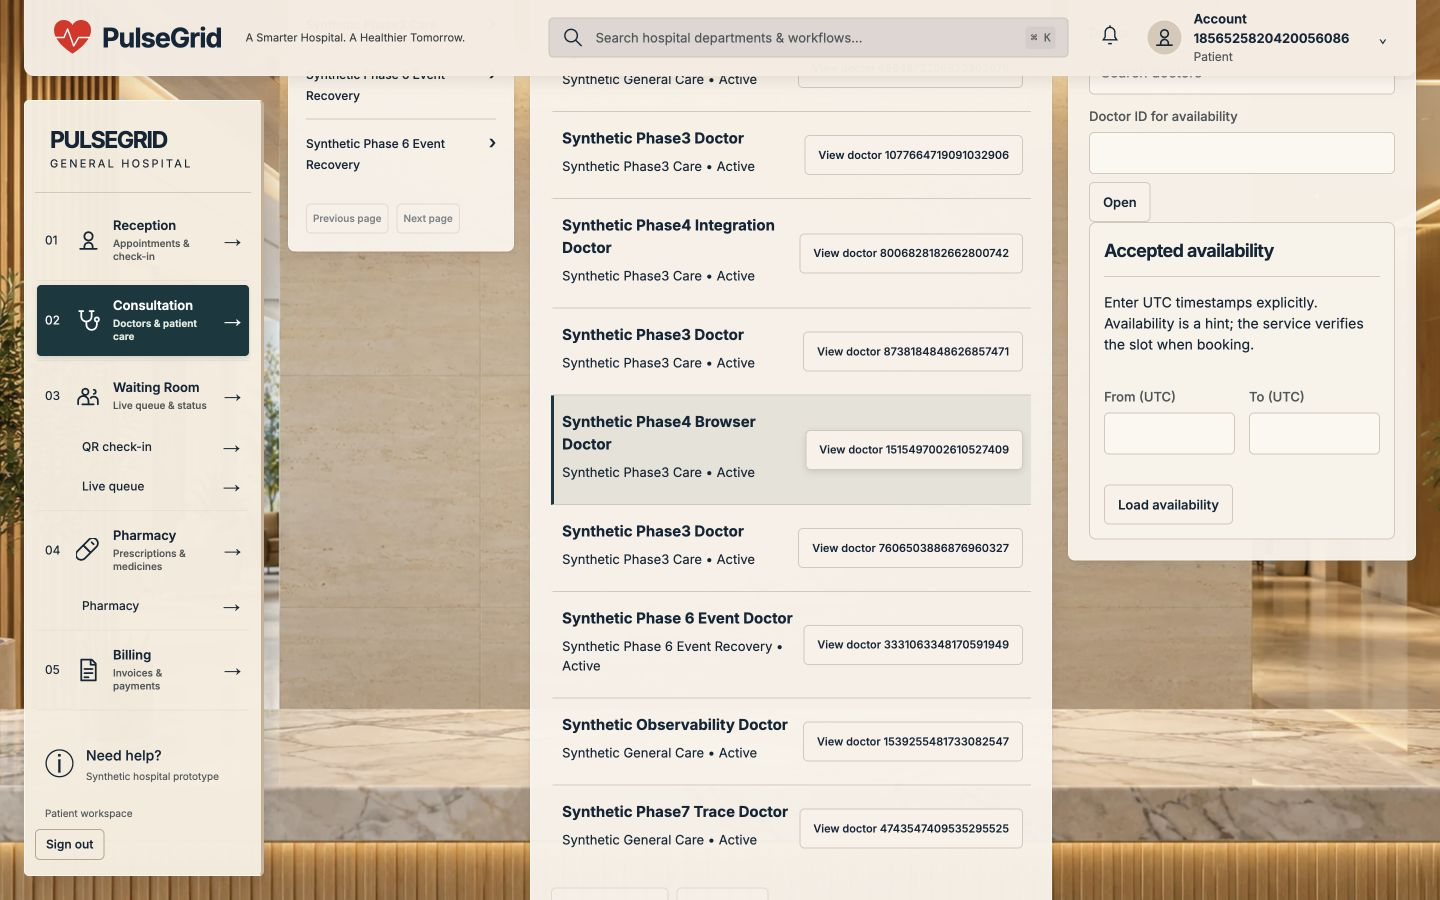
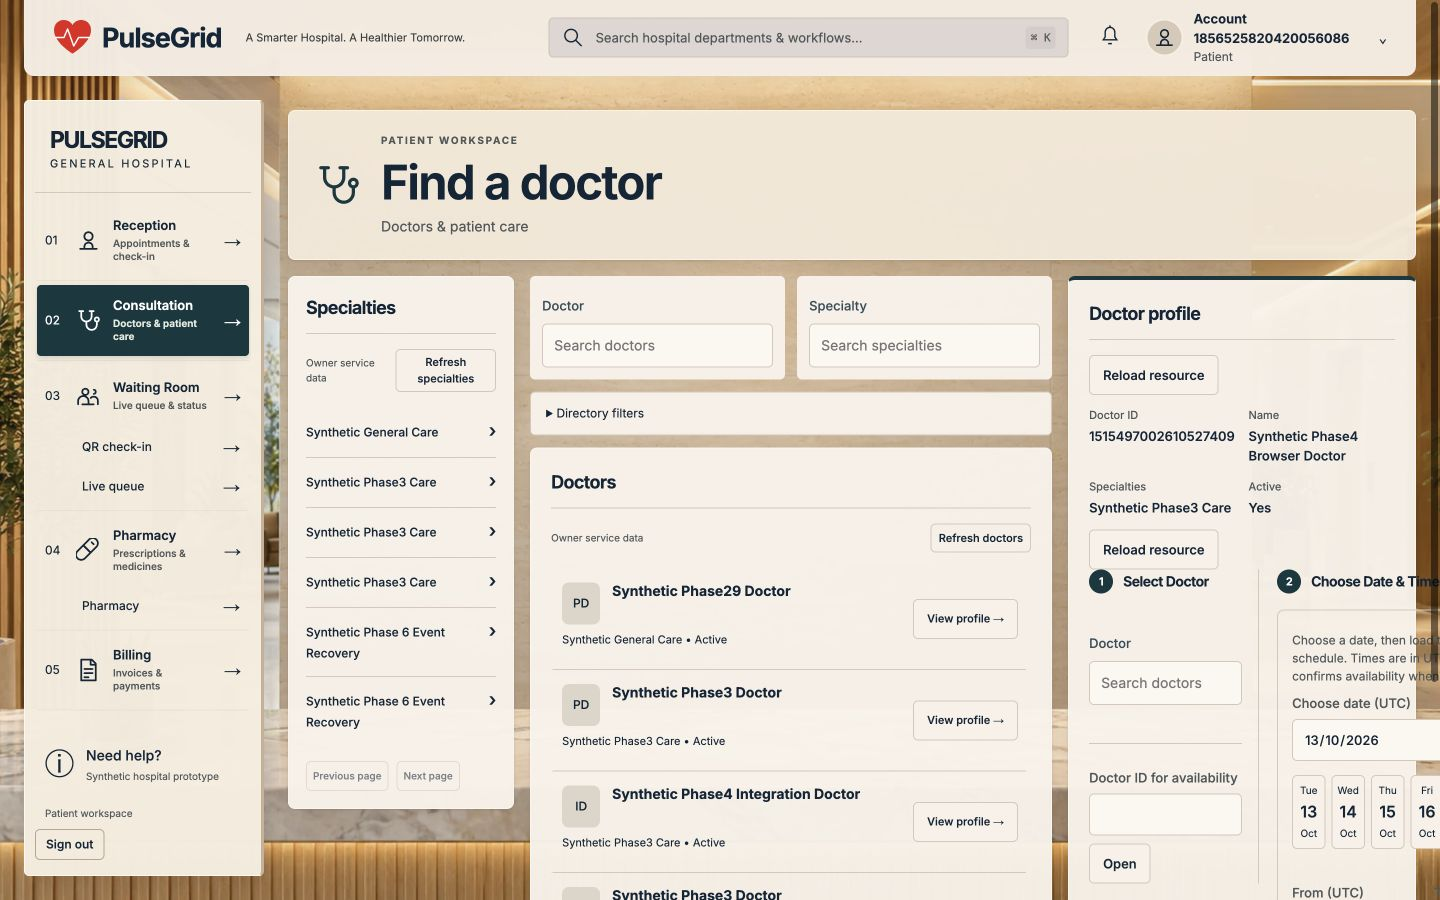
phase9: compose pharmacy counter invoices emergency cases and clinical dossiers

diff --git a/frontend/src/hospital/billingEmergency.tsx b/frontend/src/hospital/billingEmergency.tsx
@@ -1,3 +1,4 @@
+import { DepartmentIcon } from "../design/DepartmentIcon";
 import { InsuranceEstimatePanel, InsuranceRefreshPanel } from "../phase4";
 import { useState } from "react";
 import { useAuth } from "../auth/authContext";
@@ -32,12 +33,13 @@ export function BillingPage({ staff = false }: { staff?: boolean }) {
   const [revision, setRevision] = useState(0);
   const [payment, setPayment] = useState<Payment | null>(null);
   return (
-    <>
-      <p>
+    <div className="billing-workbench">
+      <p className="billing-service-note">
         Payments are simulated. Do not enter card, bank or real payment
         credentials. Invoice balances include only charges explicitly imported
         by billing staff.
       </p>
+      <section className="billing-source-desk">
       {staff && (
         <Panel title="Create invoice">
           <CommandForm<Invoice>
@@ -88,6 +90,7 @@ export function BillingPage({ staff = false }: { staff?: boolean }) {
           setPayment(null);
         }}
       />
+      </section><aside className="invoice-receipt">{!selected && <Panel title="Current bill"><div className="resource-empty"><DepartmentIcon department="billing"/><strong>Open an invoice</strong><p>Choose an invoice to review its authoritative line items, insurance estimate and balance.</p></div></Panel>}
       <Selected<Invoice>
         path={selected ? `/api/v1/billing/invoices/${selected}` : null}
       >
@@ -113,18 +116,8 @@ export function BillingPage({ staff = false }: { staff?: boolean }) {
               {invoice.items.length === 0 && (
                 <p>No charges have been imported.</p>
               )}
-              {invoice.items.map((item) => (
-                <Facts
-                  key={item.id}
-                  values={{
-                    Charge: item.charge_code,
-                    Source: `${item.source_service} ${item.source_item_id}`,
-                    Quantity: item.quantity,
-                    "Unit price": money(item.unit_amount_minor),
-                    "Tariff revision": item.tariff_revision,
-                  }}
-                />
-              ))}
+              <div className="invoice-line-scroll"><table className="invoice-lines"><caption>Itemized invoice</caption><thead><tr><th scope="col">Charge / source</th><th scope="col">Qty</th><th scope="col">Unit price</th><th scope="col">Tariff</th></tr></thead><tbody>{invoice.items.map(item=><tr key={item.id}><th scope="row">{item.charge_code}<small>{item.source_service} · {item.source_item_id}</small></th><td>{item.quantity}</td><td>{money(item.unit_amount_minor)}</td><td>{item.tariff_revision}</td></tr>)}</tbody></table></div>
+              <div className="invoice-total"><span>Balance due</span><strong>{money(invoice.balance_minor)}</strong></div>
               {staff && (
                 <CommandForm
                   title="Import charges manually"
@@ -226,8 +219,9 @@ export function BillingPage({ staff = false }: { staff?: boolean }) {
           . Amount {money(payment.amount_minor)}.
         </p>
       )}
-      {staff && <Tariffs />}
-    </>
+      </aside>
+      {staff && <section className="billing-tariff-desk"><Tariffs /></section>}
+    </div>
   );
 }
 function Tariffs() {
@@ -291,11 +285,12 @@ export function EmergencyPage({ staff = false }: { staff?: boolean }) {
   const { state } = useAuth();
   const userId = state.status === "authenticated" ? state.user.id : undefined;
   return (
-    <>
-      <p>
+    <div className="emergency-workbench">
+      <p className="emergency-service-note">
         Synthetic educational requests only. This prototype does not provide
         emergency dispatch or certified clinical triage.
       </p>
+      <section className="emergency-register">
       {!staff && (
         <Panel title="Submit emergency request">
           <Resource<PatientProfile> path="/api/v1/patients/me">
@@ -370,6 +365,7 @@ export function EmergencyPage({ staff = false }: { staff?: boolean }) {
         )}
       />
       <Lookup label="Emergency request ID" onSelect={setSelected} />
+      </section><section className="emergency-active">{!selected && <Panel title="Active request"><div className="resource-empty"><DepartmentIcon department="emergency"/><strong>Select an emergency request</strong><p>Review a request to see its owner-confirmed priority, claim and allowed next actions.</p></div></Panel>}
       <Selected<Emergency>
         path={selected ? `/api/v1/emergencies/${selected}` : null}
       >
@@ -381,7 +377,7 @@ export function EmergencyPage({ staff = false }: { staff?: boolean }) {
           const terminal = ["resolved", "cancelled"].includes(item.state);
           const ownedClaim = !!userId && item.claimed_by_user_id === userId;
           return (
-            <>
+            <div className="emergency-case-layout">
               <Facts
                 values={{
                   "Request ID": item.id,
@@ -487,11 +483,11 @@ export function EmergencyPage({ staff = false }: { staff?: boolean }) {
                   onSuccess={changed}
                 />
               )}
-            </>
+            </div>
           );
         }}
       </Selected>
-    </>
+    </section></div>
   );
 }
 

diff --git a/frontend/src/hospital/records.tsx b/frontend/src/hospital/records.tsx
@@ -1,3 +1,4 @@
+import { DepartmentIcon } from "../design/DepartmentIcon";
 import { useState } from "react";
 import type {
   Consultation,
@@ -123,13 +124,13 @@ function prescriptionItems(items: Values[]): PrescriptionItemInput[] {
 }
 export function ClinicalFacts({ value }: { value: Content }) {
   return (
-    <Facts
+    <div className="clinical-content"><Facts
       values={{
         Summary: value.summary,
         Assessment: value.assessment,
         Plan: value.plan,
       }}
-    />
+    /></div>
   );
 }
 function ConsultationEditor({
@@ -197,7 +198,7 @@ export function Consultations({ doctor = false }: { doctor?: boolean }) {
   const [selected, setSelected] = useState<string | null>(null);
   const [revision, setRevision] = useState(0);
   return (
-    <>
+    <div className="consultation-clinical">
       {doctor && (
         <>
           <Appointments doctor />
@@ -221,6 +222,7 @@ export function Consultations({ doctor = false }: { doctor?: boolean }) {
           </Panel>
         </>
       )}
+      <section className="consultation-register">
       <Collection<Consultation>
         title="Consultations"
         path="/api/v1/records/consultations"
@@ -238,6 +240,7 @@ export function Consultations({ doctor = false }: { doctor?: boolean }) {
         )}
       />
       <Lookup label="Consultation ID" onSelect={setSelected} />
+      </section><section className="clinical-editor">{!selected && <Panel title="Consultation room"><div className="resource-empty"><DepartmentIcon department="consultation"/><strong>Open a consultation</strong><p>Select an authorized consultation or create one for an assigned appointment.</p></div></Panel>}
       <Selected<Consultation>
         path={selected ? `/api/v1/records/consultations/${selected}` : null}
       >
@@ -265,7 +268,7 @@ export function Consultations({ doctor = false }: { doctor?: boolean }) {
           )
         }
       </Selected>
-    </>
+    </section></div>
   );
 }
 function History({
@@ -278,17 +281,14 @@ function History({
   const [selected, setSelected] = useState<string | null>(null);
   const [revision, setRevision] = useState(0);
   return (
-    <>
+    <div className="record-history"><aside className="visit-timeline">
       <Collection<RecordSummary>
         title="Medical history"
         path={`/api/v1/records/patients/${patientId}`}
         revision={revision}
         renderItem={(item) => (
           <>
-            <p>
-              Record {item.id} • Consultation {item.consultation_id} • Revision{" "}
-              {item.revision} • {item.created_at}
-            </p>
+            <time dateTime={item.created_at}>{new Date(item.created_at).toLocaleString('en',{timeZone:'UTC',dateStyle:'medium',timeStyle:'short'})} UTC</time><strong>Clinical record</strong><p>Record {item.id} · Consultation {item.consultation_id} · Revision {item.revision}</p>
             <button onClick={() => setSelected(item.id)}>
               View record {item.id}
             </button>
@@ -296,6 +296,7 @@ function History({
         )}
       />
       <Lookup label="Medical record ID" onSelect={setSelected} />
+      </aside><section className="active-dossier">{!selected && <Panel title="Clinical dossier"><div className="resource-empty"><DepartmentIcon department="records"/><strong>Choose a visit</strong><p>Open a record from your timeline to read its authorized summary, assessment and plan.</p></div></Panel>}
       <Selected<MedicalRecord>
         path={selected ? `/api/v1/records/${selected}` : null}
       >
@@ -336,7 +337,7 @@ function History({
           </>
         )}
       </Selected>
-    </>
+    </section></div>
   );
 }
 function Grants({ patientId }: { patientId: string }) {

diff --git a/frontend/src/hospital/pharmacy.tsx b/frontend/src/hospital/pharmacy.tsx
@@ -1,3 +1,4 @@
+import { DepartmentIcon } from "../design/DepartmentIcon";
 import { MedicineAutocomplete } from "../phase4";
 import { useAuth } from "../auth/authContext";
 import { useState } from "react";
@@ -41,7 +42,7 @@ export function MedicineCatalog({
   const [revision, setRevision] = useState(0);
   const [medicineId, setMedicineId] = useState("");
   return (
-    <>
+    <div className="pharmacy-catalog"><div className="pharmacy-search-counter">
       <MedicineAutocomplete api={api} roleHints={state.status === "authenticated" ? state.roleHints : []} onSelect={item => setSelected(item.id)} />
       <Panel title="Medicine search">
         <form
@@ -80,22 +81,22 @@ export function MedicineCatalog({
           {error && <p role="alert">{error}</p>}
         </form>
       </Panel>
+      </div><div className="pharmacy-shelf-workspace"><div className="medicine-shelves">
       <Collection<Medicine>
         title="Medicines"
         path={query("/api/v1/pharmacy/medicines", filters)}
         revision={revision}
         renderItem={(item) => (
           <>
-            <strong>{item.name}</strong>
+            <span className="medicine-box" aria-hidden="true"><DepartmentIcon department="pharmacy"/><span>{item.sku}</span></span><strong>{item.name}</strong>
             <p>
               {item.sku} • {item.availability} (stock hint)
             </p>
-            <button onClick={() => setSelected(item.id)}>
-              View medicine {item.id}
-            </button>
+            <button aria-label={`View medicine ${item.id}`} onClick={() => setSelected(item.id)}>Medicine details →</button>
           </>
         )}
       />
+      </div><aside className="dispensing-counter">{!selected && <Panel title="Medicine details"><div className="resource-empty"><DepartmentIcon department="pharmacy"/><strong>Choose a medicine</strong><p>Open a shelf item to review its catalog status. Prescription fulfillment remains a separate authorized workflow.</p></div></Panel>}
       <Selected<Medicine>
         path={selected ? `/api/v1/pharmacy/medicines/${selected}` : null}
       >
@@ -151,6 +152,7 @@ export function MedicineCatalog({
           </>
         )}
       </Selected>
+      </aside></div>
       {staff && (
         <Panel title="New catalog medicine">
           <CommandForm
@@ -199,7 +201,7 @@ export function MedicineCatalog({
           <StockAdjustment onSuccess={() => setRevision((v) => v + 1)} />
         </>
       )}
-    </>
+    </div>
   );
 }
 function StockAdjustment({ onSuccess }: { onSuccess: () => void }) {
